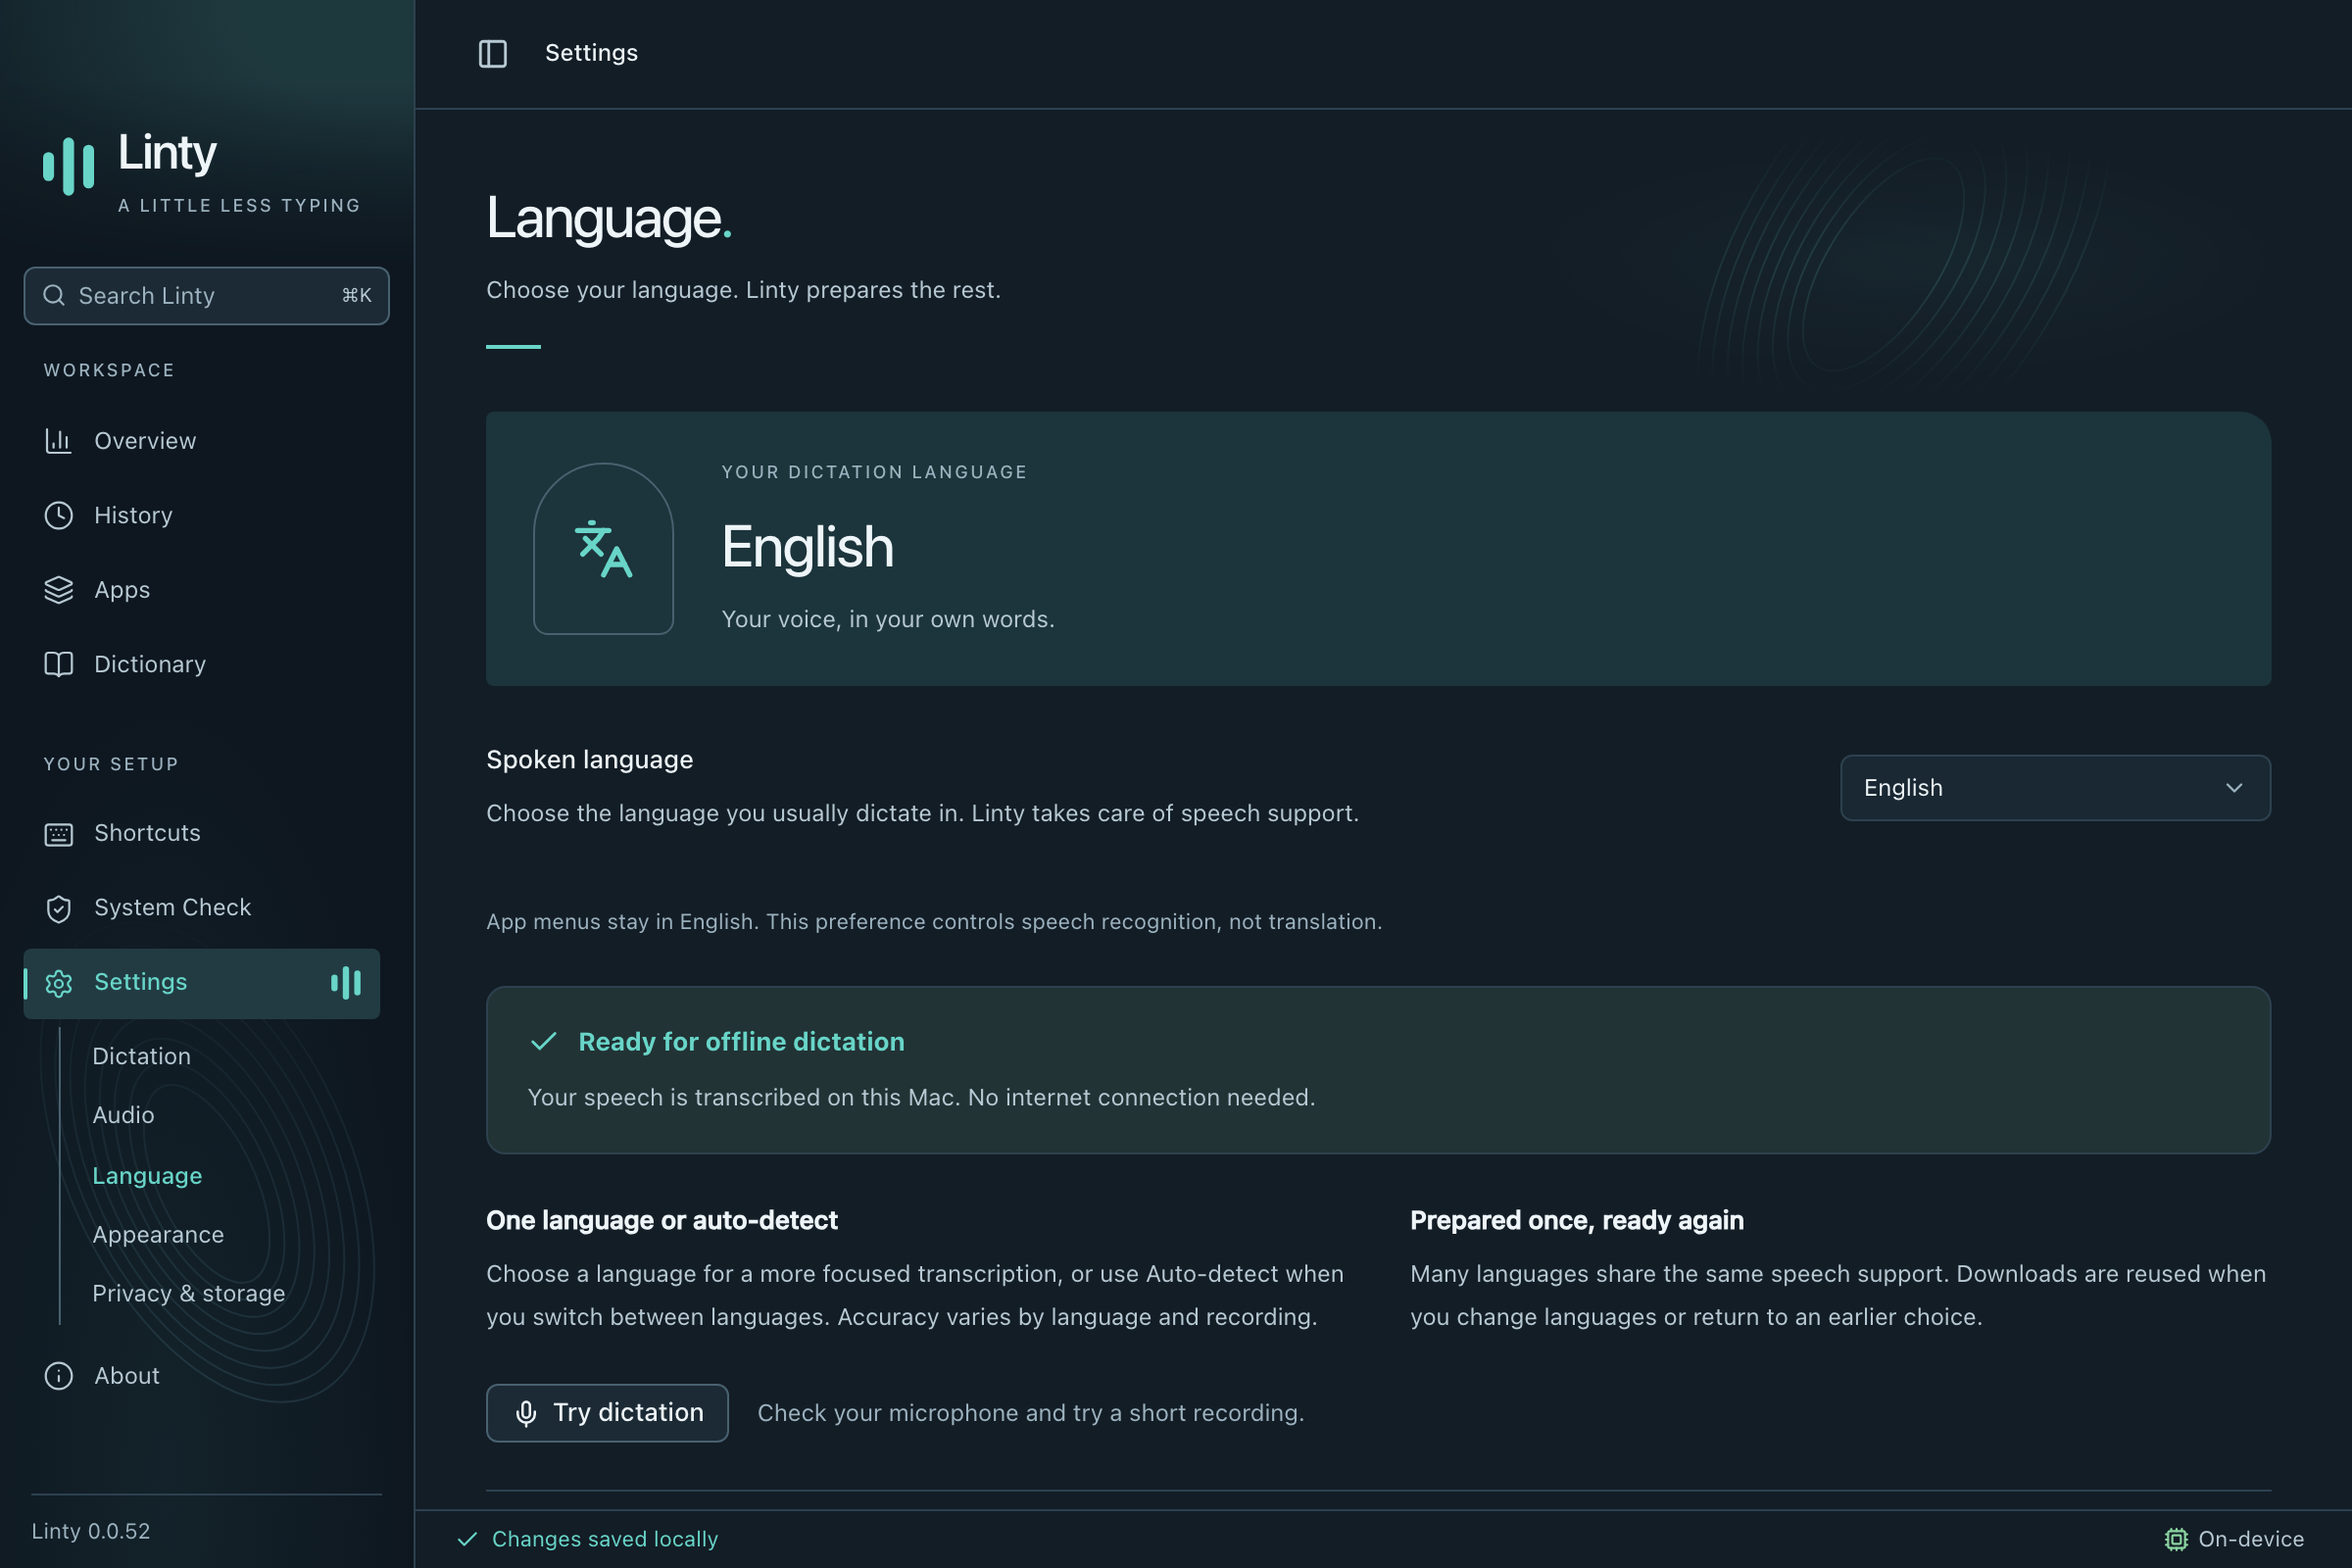
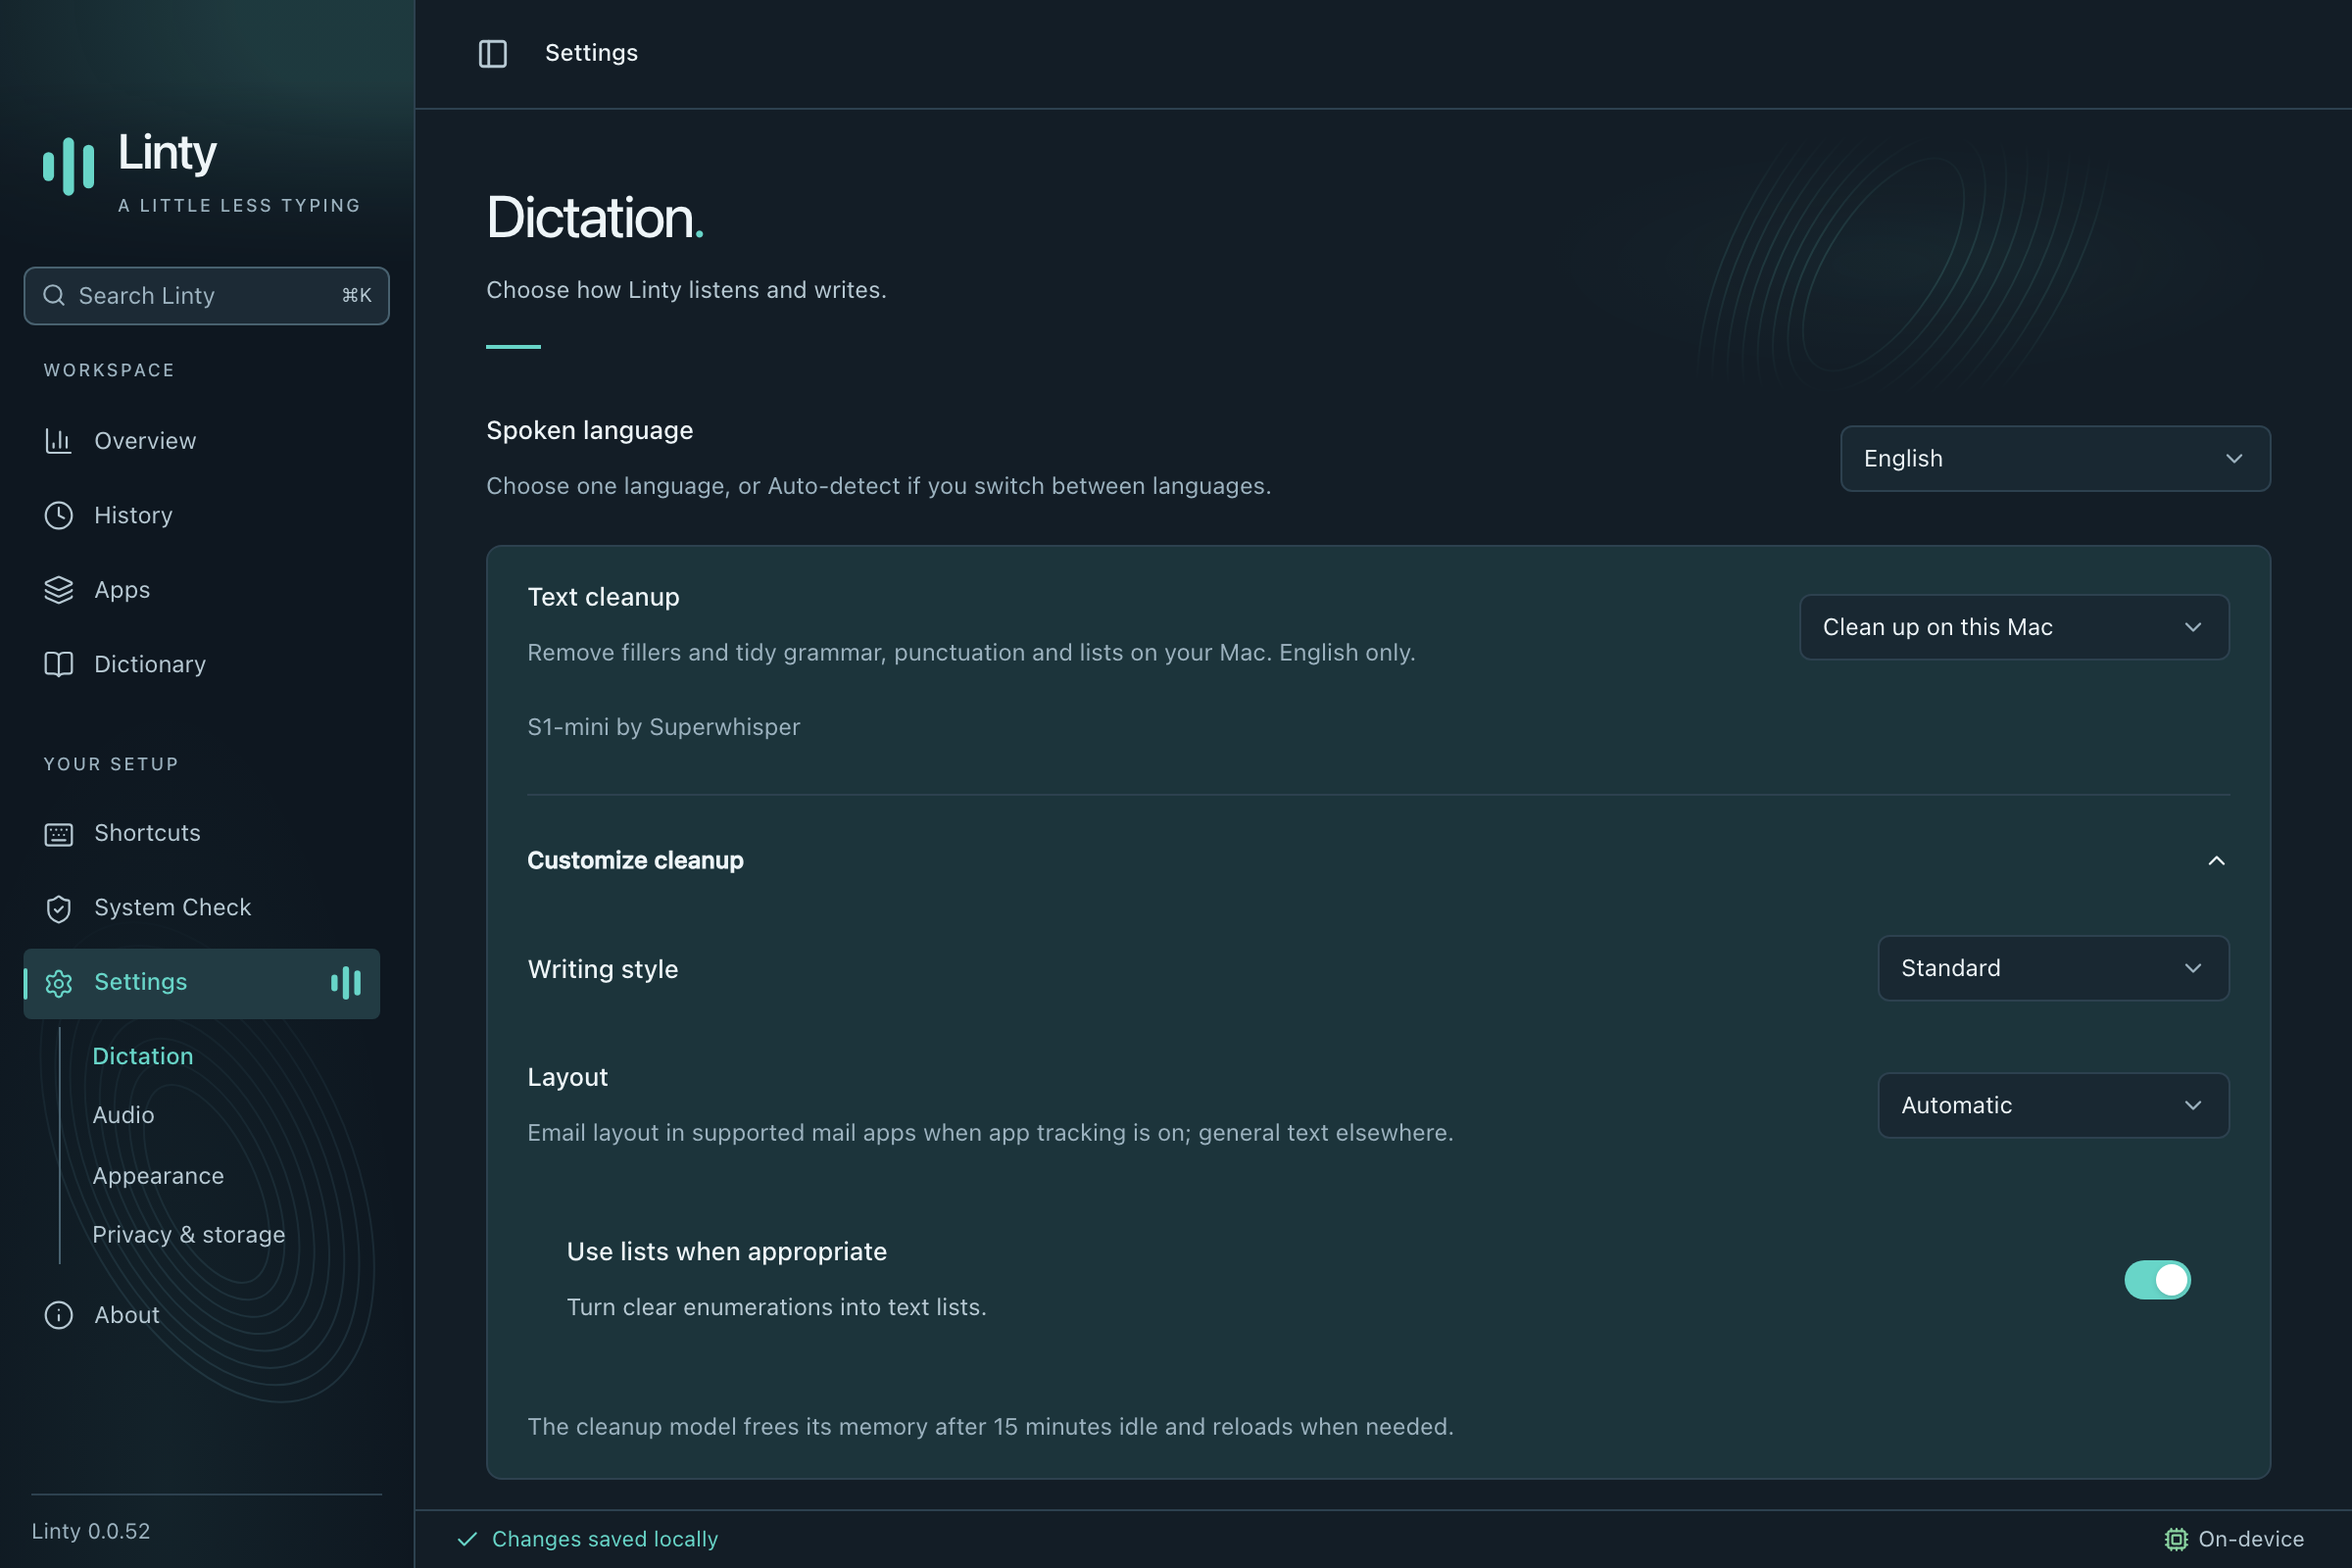
Refresh website screenshots for unified Dictation settings

diff --git a/website/index.html b/website/index.html
@@ -69,7 +69,7 @@
             <div class="screen-switch" role="group" aria-label="Product screens">
               <button type="button" data-screen="history" aria-pressed="false">History</button>
               <button type="button" data-screen="overview" aria-pressed="true">Overview</button>
-              <button type="button" data-screen="language" aria-pressed="false">Language</button>
+              <button type="button" data-screen="dictation" aria-pressed="false">Dictation</button>
             </div>
             <button type="button" class="product-playback" id="product-playback" aria-label="Pause screen slideshow" title="Pause screen slideshow" hidden><span class="product-playback-icon" aria-hidden="true"></span></button>
           </div>
@@ -82,8 +82,8 @@
             <div class="product-slide" data-product-slide="overview" data-caption="An example week: 3,048 words, about 52 minutes back." data-sample="Example data · 40 wpm typing baseline" role="group" aria-roledescription="slide" aria-label="2 of 3: Overview" aria-hidden="false">
               <img id="product-image" src="images/overview-light.png?v=52fbff877a99" data-light="images/overview-light.png?v=52fbff877a99" data-dark="images/overview-dark.png?v=a7851a13a4d2" width="1200" height="800" alt="Linty’s Overview with a plausible week of example dictations, words transcribed, and estimated time saved." draggable="false" decoding="async" fetchpriority="high" />
             </div>
-            <div class="product-slide" data-product-slide="language" data-caption="Choose your language. Linty prepares speech support automatically." data-sample="Actual interface · example data" role="group" aria-roledescription="slide" aria-label="3 of 3: Language" aria-hidden="true" hidden inert>
-              <img src="images/language-light.png?v=d8d5c4290782" data-light="images/language-light.png?v=d8d5c4290782" data-dark="images/language-dark.png?v=09096fdaf702" width="1200" height="800" alt="Linty’s Language settings with English selected and ready for offline dictation." draggable="false" decoding="async" />
+            <div class="product-slide" data-product-slide="dictation" data-caption="Your language and text cleanup, together in Dictation settings." data-sample="Actual interface · example data" role="group" aria-roledescription="slide" aria-label="3 of 3: Dictation" aria-hidden="true" hidden inert>
+              <img src="images/language-light.png?v=6ff8a1dd6072" data-light="images/language-light.png?v=6ff8a1dd6072" data-dark="images/language-dark.png?v=40629f5fae46" width="1200" height="800" alt="Linty’s Dictation settings with English selected, on-device text cleanup, and writing style, layout, and list controls." draggable="false" decoding="async" />
             </div>
           </div>
           <figcaption><span id="screen-caption">An example week: 3,048 words, about 52 minutes back.</span><span class="sample-label" id="sample-label">Example data · 40 wpm typing baseline</span></figcaption>
@@ -215,10 +215,10 @@
       <div class="faq-list">
         <details open><summary>Will it run on my Mac?<span aria-hidden="true">+</span></summary><p>Linty requires macOS 14 or later and an Apple Silicon Mac (M1 or newer). Your language, recording length, and available memory affect processing time.</p></details>
         <details><summary>What do I need to set up?<span aria-hidden="true">+</span></summary><p>Choose your spoken language. Linty downloads the speech support it needs, or reuses an existing download. Grant Microphone and Accessibility access, then choose your shortcut. System Check helps you try your microphone and dictation.</p></details>
-        <details><summary>Can I change languages later?<span aria-hidden="true">+</span></summary><p>Yes. In Settings → Language, search 100 languages by English or native name, or choose Auto-detect. Linty reuses downloaded speech support and downloads more only when needed. Your current language stays active until the new one is ready. App menus stay in English; recognition accuracy varies by language.</p></details>
+        <details><summary>Can I change languages later?<span aria-hidden="true">+</span></summary><p>Yes. In Settings → Dictation, search 100 languages by English or native name, or choose Auto-detect and save up to three languages you use. Linty reuses downloaded speech support and downloads more only when needed. Your current language stays active until the new one is ready. App menus stay in English; recognition accuracy varies by language.</p></details>
         <details><summary>Does dictation need an internet connection?<span aria-hidden="true">+</span></summary><p>Internet access is needed to download speech support, optional text cleanup, and app updates. Once speech support is ready, dictation works offline. Your audio and transcripts stay on your Mac.</p></details>
         <details><summary>Is it free?<span aria-hidden="true">+</span></summary><p>Linty is free and open source under the MIT license. No account or subscription is needed for dictation or optional text cleanup.</p></details>
-        <details><summary>What if a transcription isn’t right?<span aria-hidden="true">+</span></summary><p>Review and edit it in History, add unfamiliar names to your dictionary, and check that your spoken language is selected in Settings → Language. Use System Check to try your microphone. Audio quality and background noise can affect results.</p></details>
+        <details><summary>What if a transcription isn’t right?<span aria-hidden="true">+</span></summary><p>Review and edit it in History, add unfamiliar names to your dictionary, and check that your spoken language is selected in Settings → Dictation. Use System Check to try your microphone. Audio quality and background noise can affect results.</p></details>
       </div>
     </section>
 

diff --git a/scripts/website-preview.html b/scripts/website-preview.html
@@ -9,6 +9,7 @@ previewClock.setHours(16, 45, 0, 0);
 Date.now = () => previewClock.getTime();
 fixture({ theme: new URLSearchParams(location.search).get('theme') || 'light' });
 window.__QA__.stores[1].transcriptionLanguage = "en";
+window.__QA__.stores[1].reformatEnabled = true;
 window.__QA__.stores[1].updateHistory = { lastRunVersion: version, notice: null };
 window.__QA__.stores[2].transcripts = websitePreviewData();
 window.__QA__.stores[3].corrections = [];
@@ -22,6 +23,7 @@ const invoke = window.__TAURI_INTERNALS__.invoke;
 window.__TAURI_INTERNALS__.invoke = (command, ...args) => {
   if (command === 'plugin:app|version') return Promise.resolve(version);
   if (command === 'get_app_icons') return Promise.resolve(icons);
+  if (command === 's1_model_status') return Promise.resolve({ downloaded: true, loaded: true, downloading: false, progress: 100, downloadBytes: 495642462 });
   return invoke(command, ...args);
 };
 await import('/src/main.tsx');

diff --git a/RELEASE_NOTES.md b/RELEASE_NOTES.md
@@ -1,6 +1,4 @@
 ## What's new
 
-- Read the privacy notice and license information offline during setup, in Privacy & storage, or in About. Matching notices are included in the website source and on GitHub.
-- See clearer explanations of local storage, downloads, updates, website hosting, and what resetting app data deletes.
-- Use a larger live waveform in Microphone Test and keep your last three results readable and copyable. Transcripts are also available in History.
-- Dictating while Linty is focused opens a dedicated recording view and returns to your previous screen after ten seconds. Choose Stay here to keep reviewing, or Back now to return sooner.
+- Explore refreshed website screenshots showing language selection and on-device text cleanup together in Dictation settings, in both light and dark themes.
+- Follow updated website setup instructions for changing languages and choosing up to three Auto-detect languages.

diff --git a/website/README.md b/website/README.md
@@ -109,7 +109,9 @@ logical width and reserves the aspect ratio. Screenshots are not zoom links:
 
 - `overview-{light,dark}.png` — initial Overview
 - `history-{light,dark}.png` — History with the latest email reply selected
-- `language-{light,dark}.png` — Settings → Language with English selected
+- `language-{light,dark}.png` — Settings → Dictation with English selected and
+  on-device cleanup enabled. Customize cleanup is expanded to show writing style,
+  layout, and lists. The filenames stay stable after Language moved into Dictation.
 
 On desktop (at least 761px wide and 560px tall), the showcase scales to the
 viewport height below the sticky header, with 16px of breathing room at each end.
